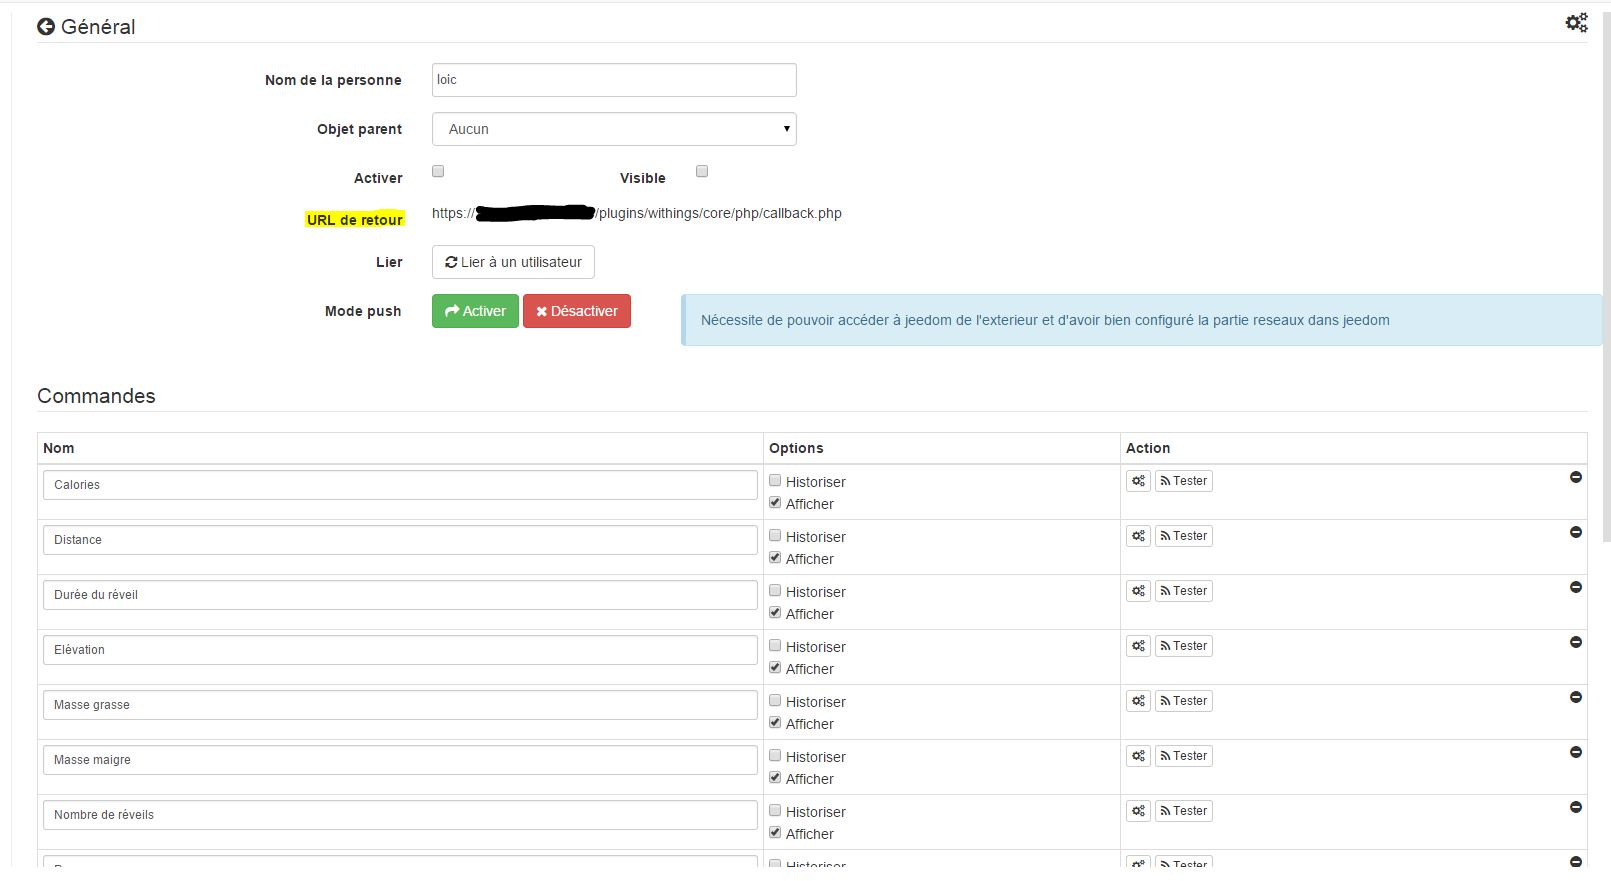
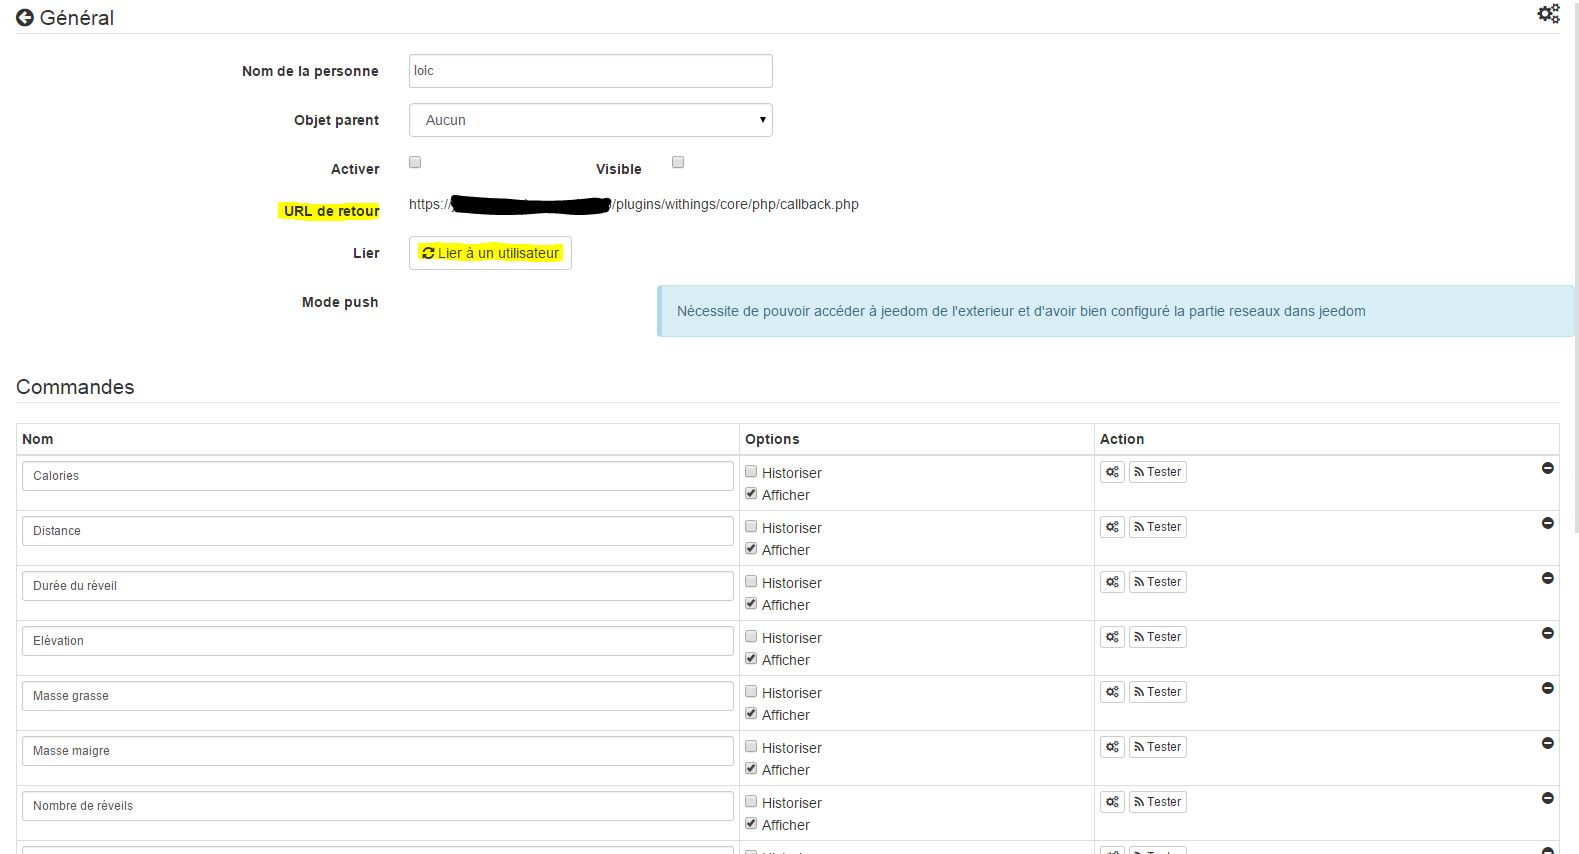
Add doc

diff --git a/desktop/js/withings.js b/desktop/js/withings.js
@@ -109,6 +109,8 @@
             $('#div_alert').showAlert({message: data.result, level: 'danger'});
             return;
         }
+        $('#bt_registerNotification').hide();
+        $('#bt_revokeNotification').hide();
         var found = false;
         if(isset(data.result.body) && isset(data.result.body.profiles)){
             var profiles = data.result.body.profiles;
